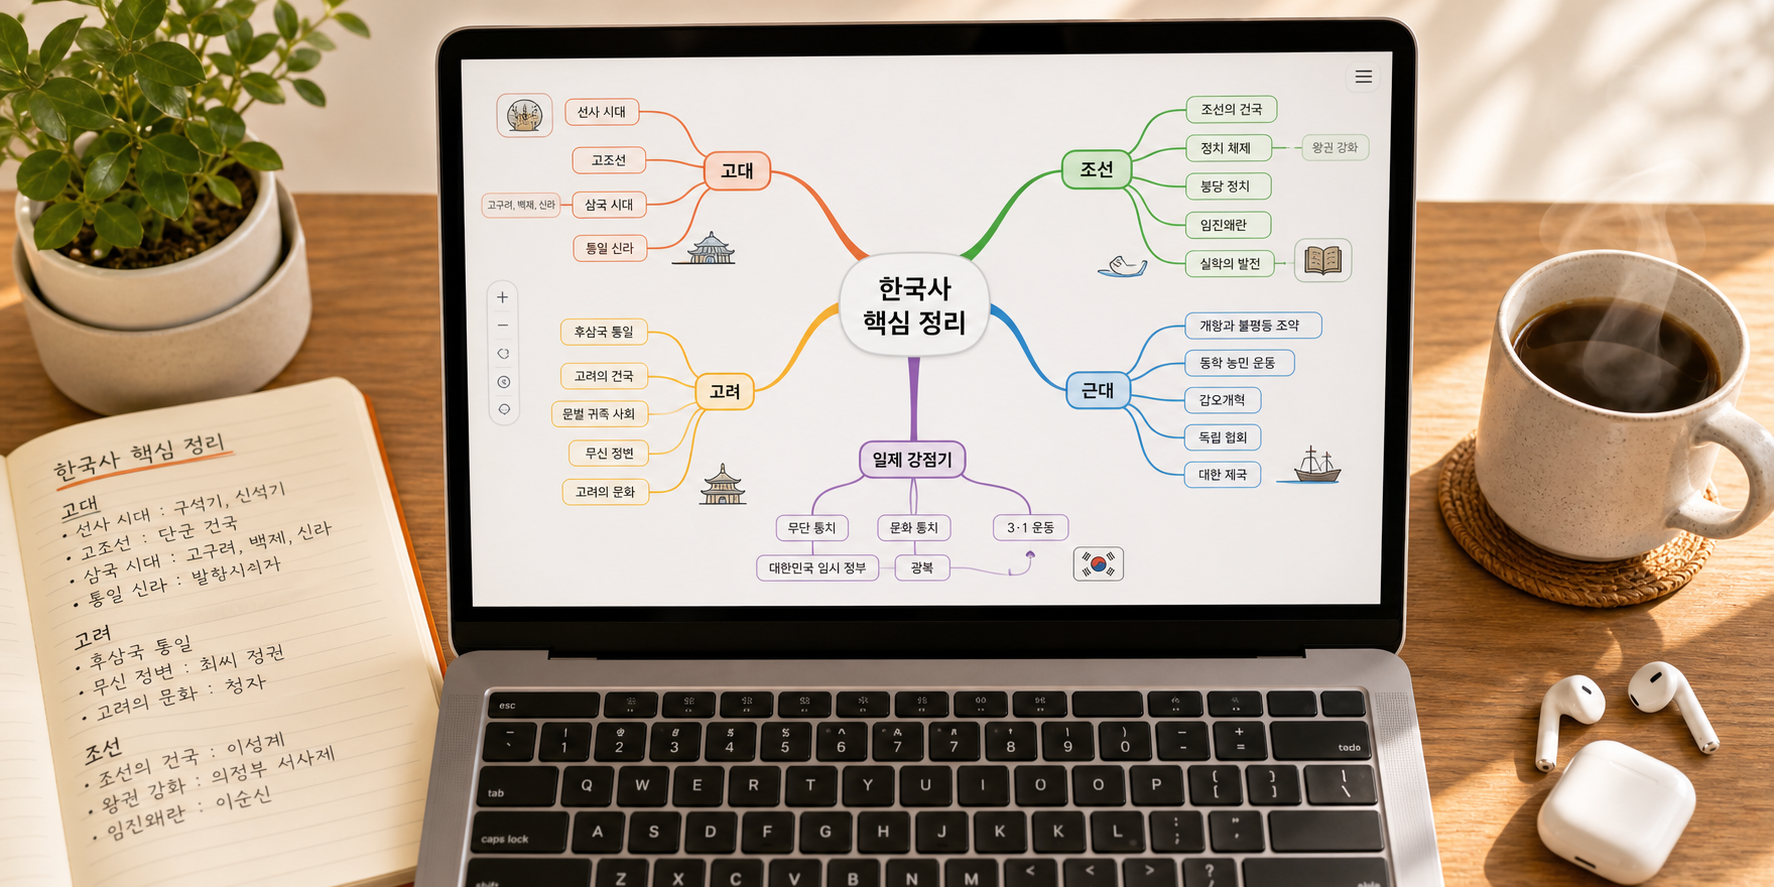
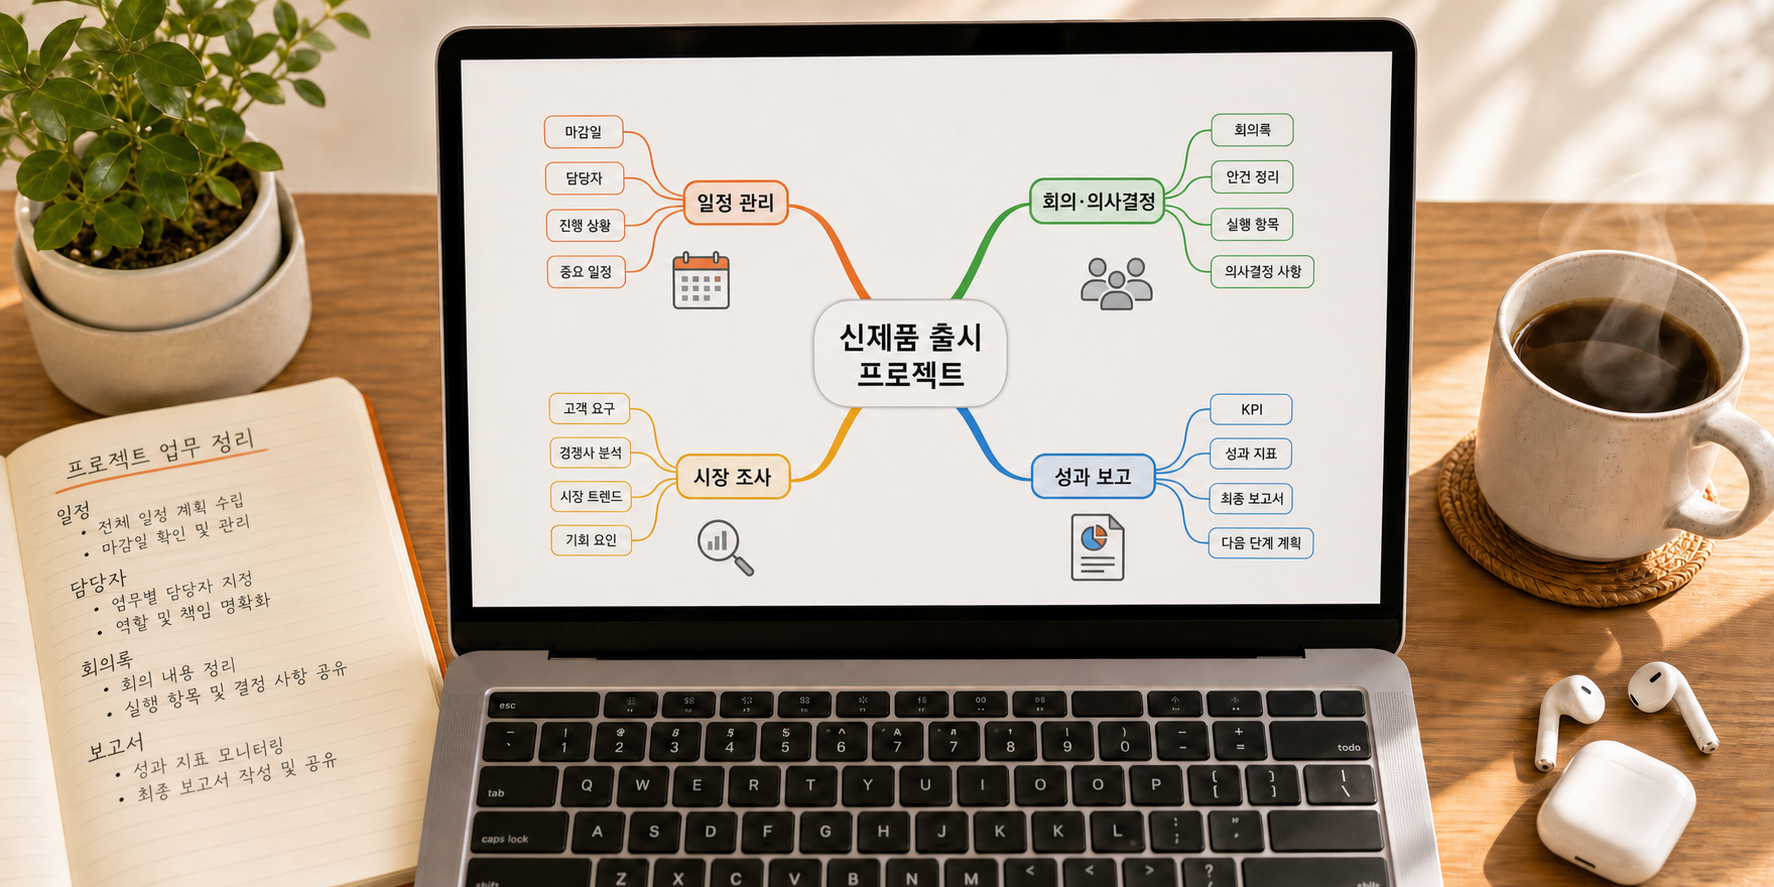
Simplify main header and refresh NotebookLM visual

diff --git a/index.html b/index.html
@@ -98,16 +98,10 @@
   height="0" width="0" style="display:none;visibility:hidden"></iframe></noscript>
   <!-- End Google Tag Manager (noscript) -->
   <main class="relative min-h-screen overflow-hidden">
-    <div class="absolute left-0 right-0 top-0 z-20 flex items-center justify-between px-5 py-4 md:px-8">
+    <div class="absolute left-0 right-0 top-0 z-20 px-5 py-4 md:px-8">
       <a href="./" aria-label="CLOUD SECURITY LAB 통합 페이지">
         <img src="https://i.imgur.com/NOmCfwO.png" alt="CLOUD SECURITY LAB" class="h-8 w-auto brightness-0 invert" />
       </a>
-      <div class="flex items-center gap-2">
-        <button type="button" data-share-button data-track-event="share_click" data-track-label="main_split_share" aria-label="친구에게 공유하기" class="inline-flex h-10 w-10 items-center justify-center rounded-full bg-white/95 text-ink-900 shadow-lg">
-          <svg aria-hidden="true" viewBox="0 0 24 24" class="h-5 w-5" fill="none" stroke="currentColor" stroke-width="2.2" stroke-linecap="round" stroke-linejoin="round"><circle cx="18" cy="5" r="3" /><circle cx="6" cy="12" r="3" /><circle cx="18" cy="19" r="3" /><path d="M8.6 10.8 15.4 6.2" /><path d="M8.6 13.2 15.4 17.8" /></svg>
-        </button>
-        <a href="http://pf.kakao.com/_xeKJxen/chat" target="_blank" rel="noopener" data-track-event="contact_click" data-track-label="main_split_kakao" class="rounded-full bg-yellow-300 px-4 py-2 text-sm font-extrabold text-ink-900 shadow-lg">카톡 문의</a>
-      </div>
     </div>
 
     <section class="grid min-h-screen grid-rows-2 md:grid-cols-2 md:grid-rows-1">
@@ -129,7 +123,7 @@
       </a>
 
       <a href="./notebooklm.html" data-track-event="course_click" data-track-label="main_split_notebooklm" class="choice-panel group relative flex min-h-[50vh] items-end overflow-hidden bg-ink-900 p-6 pb-16 md:min-h-screen md:p-10">
-        <img src="images/notebooklm.png" alt="구글 AI - NotebookLM 클래스" class="absolute inset-0 h-full w-full object-cover transition duration-500 group-hover:scale-105" />
+        <img src="images/notebooklm.png?v=20260721-work" alt="구글 AI - NotebookLM 클래스" class="absolute inset-0 h-full w-full object-cover transition duration-500 group-hover:scale-105" />
         <div class="choice-content relative z-10 max-w-xl">
           <div class="mb-4 inline-flex rounded-full bg-blueBrand-500 px-3 py-1 text-xs font-extrabold text-white shadow-lg">학생·비전공자·직장인 · 일 09:00~12:00</div>
           <div class="deadline-chip mb-3 inline-flex rounded-full bg-yellow-300 px-3 py-1 text-xs font-black text-ink-900">선착순 5명 마감임박</div>
@@ -257,22 +251,6 @@
       });
     })();
 
-    const shareUrl = 'https://gasbugs.github.io/dalnayou-class-landing/';
-    const shareData = {
-      title: '클씨랩 AI·코딩 4주 클래스',
-      text: '로블록스 AI와 구글 AI - NotebookLM 중 맞는 수업을 선택해보세요.',
-      url: shareUrl
-    };
-    document.querySelectorAll('[data-share-button]').forEach((button) => {
-      button.addEventListener('click', async () => {
-        if (navigator.share) {
-          await navigator.share(shareData);
-          return;
-        }
-        await navigator.clipboard.writeText(shareUrl);
-        alert('공유 링크를 복사했습니다.');
-      });
-    });
   </script>
 </body>
 </html>

diff --git a/main.html b/main.html
@@ -98,16 +98,10 @@
   height="0" width="0" style="display:none;visibility:hidden"></iframe></noscript>
   <!-- End Google Tag Manager (noscript) -->
   <main class="relative min-h-screen overflow-hidden">
-    <div class="absolute left-0 right-0 top-0 z-20 flex items-center justify-between px-5 py-4 md:px-8">
+    <div class="absolute left-0 right-0 top-0 z-20 px-5 py-4 md:px-8">
       <a href="./" aria-label="CLOUD SECURITY LAB 통합 페이지">
         <img src="https://i.imgur.com/NOmCfwO.png" alt="CLOUD SECURITY LAB" class="h-8 w-auto brightness-0 invert" />
       </a>
-      <div class="flex items-center gap-2">
-        <button type="button" data-share-button data-track-event="share_click" data-track-label="main_split_share" aria-label="친구에게 공유하기" class="inline-flex h-10 w-10 items-center justify-center rounded-full bg-white/95 text-ink-900 shadow-lg">
-          <svg aria-hidden="true" viewBox="0 0 24 24" class="h-5 w-5" fill="none" stroke="currentColor" stroke-width="2.2" stroke-linecap="round" stroke-linejoin="round"><circle cx="18" cy="5" r="3" /><circle cx="6" cy="12" r="3" /><circle cx="18" cy="19" r="3" /><path d="M8.6 10.8 15.4 6.2" /><path d="M8.6 13.2 15.4 17.8" /></svg>
-        </button>
-        <a href="http://pf.kakao.com/_xeKJxen/chat" target="_blank" rel="noopener" data-track-event="contact_click" data-track-label="main_split_kakao" class="rounded-full bg-yellow-300 px-4 py-2 text-sm font-extrabold text-ink-900 shadow-lg">카톡 문의</a>
-      </div>
     </div>
 
     <section class="grid min-h-screen grid-rows-2 md:grid-cols-2 md:grid-rows-1">
@@ -129,7 +123,7 @@
       </a>
 
       <a href="./notebooklm.html" data-track-event="course_click" data-track-label="main_split_notebooklm" class="choice-panel group relative flex min-h-[50vh] items-end overflow-hidden bg-ink-900 p-6 pb-16 md:min-h-screen md:p-10">
-        <img src="images/notebooklm.png" alt="구글 AI - NotebookLM 클래스" class="absolute inset-0 h-full w-full object-cover transition duration-500 group-hover:scale-105" />
+        <img src="images/notebooklm.png?v=20260721-work" alt="구글 AI - NotebookLM 클래스" class="absolute inset-0 h-full w-full object-cover transition duration-500 group-hover:scale-105" />
         <div class="choice-content relative z-10 max-w-xl">
           <div class="mb-4 inline-flex rounded-full bg-blueBrand-500 px-3 py-1 text-xs font-extrabold text-white shadow-lg">학생·비전공자·직장인 · 일 09:00~12:00</div>
           <div class="deadline-chip mb-3 inline-flex rounded-full bg-yellow-300 px-3 py-1 text-xs font-black text-ink-900">선착순 5명 마감임박</div>
@@ -257,22 +251,6 @@
       });
     })();
 
-    const shareUrl = 'https://gasbugs.github.io/dalnayou-class-landing/';
-    const shareData = {
-      title: '클씨랩 AI·코딩 4주 클래스',
-      text: '로블록스 AI와 구글 AI - NotebookLM 중 맞는 수업을 선택해보세요.',
-      url: shareUrl
-    };
-    document.querySelectorAll('[data-share-button]').forEach((button) => {
-      button.addEventListener('click', async () => {
-        if (navigator.share) {
-          await navigator.share(shareData);
-          return;
-        }
-        await navigator.clipboard.writeText(shareUrl);
-        alert('공유 링크를 복사했습니다.');
-      });
-    });
   </script>
 </body>
 </html>

diff --git a/notebooklm.html b/notebooklm.html
@@ -8,7 +8,7 @@
   <meta property="og:type" content="website" />
   <meta property="og:title" content="공부·업무 자료를 AI로 정리하고, 내 말로 설명하는 힘을 기릅니다" />
   <meta property="og:description" content="대기업·공공기관 교육 노하우를 학생·비전공자·직장인 눈높이에 맞춘 구글 AI - NotebookLM 결과물 수업으로." />
-  <meta property="og:image" content="https://gasbugs.github.io/dalnayou-class-landing/images/notebooklm.png" />
+  <meta property="og:image" content="https://gasbugs.github.io/dalnayou-class-landing/images/notebooklm.png?v=20260721-work" />
   <meta property="og:url" content="https://gasbugs.github.io/dalnayou-class-landing/notebooklm.html" />
   <!-- Google Tag Manager -->
   <script>(function(w,d,s,l,i){w[l]=w[l]||[];w[l].push({'gtm.start':
@@ -286,7 +286,7 @@
       </div>
 
       <div class="mt-12 grid gap-3 sm:grid-cols-2">
-        <img src="images/notebooklm.png" alt="NotebookLM 마인드맵 결과물" class="w-full aspect-[4/3] object-cover rounded-2xl shadow-card" />
+        <img src="images/notebooklm.png?v=20260721-work" alt="NotebookLM 업무 프로젝트 마인드맵 결과물" class="w-full aspect-[4/3] object-cover rounded-2xl shadow-card" />
         <figure>
           <img src="images/classroom.jpg" alt="소사역 힐스에비뉴 달나유 B1 실제 강의장" class="w-full aspect-[4/3] object-cover rounded-2xl shadow-card" />
           <figcaption class="mt-2 text-xs text-ink-700/70">실제 강의장 사진입니다.</figcaption>
@@ -423,7 +423,7 @@
       </div>
     </section>
 
-    <section class="bg-ink-900 px-6 py-16 text-center text-white sm:py-24">
+    <section id="ai-page-reveal" class="scroll-mt-20 bg-ink-900 px-6 py-16 text-center text-white sm:py-24">
       <div class="mx-auto max-w-4xl">
         <p class="text-sm font-extrabold text-primary-300">그것 아시나요?</p>
         <h2 class="mt-5 text-3xl font-extrabold leading-tight sm:text-5xl">
@@ -714,6 +714,13 @@
 
       render();
       window.setInterval(render, 1000);
+    });
+
+    window.addEventListener('load', () => {
+      if (window.location.hash !== '#ai-page-reveal') return;
+      window.setTimeout(() => {
+        document.querySelector('#ai-page-reveal')?.scrollIntoView({ block: 'start' });
+      }, 1000);
     });
   </script>
 </body>

diff --git a/notebooklm-countdown-preview.html b/notebooklm-countdown-preview.html
@@ -8,7 +8,7 @@
   <meta property="og:type" content="website" />
   <meta property="og:title" content="공부·업무 자료를 AI로 정리하고, 내 말로 설명하는 힘을 기릅니다" />
   <meta property="og:description" content="대기업·공공기관 교육 노하우를 학생·비전공자·직장인 눈높이에 맞춘 구글 AI - NotebookLM 결과물 수업으로." />
-  <meta property="og:image" content="https://gasbugs.github.io/dalnayou-class-landing/images/notebooklm.png" />
+  <meta property="og:image" content="https://gasbugs.github.io/dalnayou-class-landing/images/notebooklm.png?v=20260721-work" />
   <meta property="og:url" content="https://gasbugs.github.io/dalnayou-class-landing/notebooklm.html" />
   <!-- Google Tag Manager -->
   <script>(function(w,d,s,l,i){w[l]=w[l]||[];w[l].push({'gtm.start':
@@ -286,7 +286,7 @@
       </div>
 
       <div class="mt-12 grid gap-3 sm:grid-cols-2">
-        <img src="images/notebooklm.png" alt="NotebookLM 마인드맵 결과물" class="w-full aspect-[4/3] object-cover rounded-2xl shadow-card" />
+        <img src="images/notebooklm.png?v=20260721-work" alt="NotebookLM 업무 프로젝트 마인드맵 결과물" class="w-full aspect-[4/3] object-cover rounded-2xl shadow-card" />
         <figure>
           <img src="images/classroom.jpg" alt="소사역 힐스에비뉴 달나유 B1 실제 강의장" class="w-full aspect-[4/3] object-cover rounded-2xl shadow-card" />
           <figcaption class="mt-2 text-xs text-ink-700/70">실제 강의장 사진입니다.</figcaption>

diff --git a/roblox.html b/roblox.html
@@ -425,7 +425,7 @@
       </div>
     </section>
 
-    <section class="bg-ink-900 px-6 py-16 text-center text-white sm:py-24">
+    <section id="ai-page-reveal" class="scroll-mt-20 bg-ink-900 px-6 py-16 text-center text-white sm:py-24">
       <div class="mx-auto max-w-4xl">
         <p class="text-sm font-extrabold text-primary-300">그것 아시나요?</p>
         <h2 class="mt-5 text-3xl font-extrabold leading-tight sm:text-5xl">
@@ -729,6 +729,13 @@
 
       render();
       window.setInterval(render, 1000);
+    });
+
+    window.addEventListener('load', () => {
+      if (window.location.hash !== '#ai-page-reveal') return;
+      window.setTimeout(() => {
+        document.querySelector('#ai-page-reveal')?.scrollIntoView({ block: 'start' });
+      }, 1000);
     });
   </script>
 </body>

diff --git a/index-legacy.html b/index-legacy.html
@@ -572,7 +572,7 @@
             <li>🤖 Gemini 연동 <b>나만의 AI 학습 워크플로우</b></li>
           </ul>
 
-          <img src="images/notebooklm.png" alt="NotebookLM 마인드맵 결과물" class="mt-auto pt-5 w-full aspect-[3/2] object-cover object-center rounded-xl shadow-card" />
+          <img src="images/notebooklm.png?v=20260721-work" alt="NotebookLM 업무 프로젝트 마인드맵 결과물" class="mt-auto pt-5 w-full aspect-[3/2] object-cover object-center rounded-xl shadow-card" />
         </article>
 
         <!-- Roblox -->
